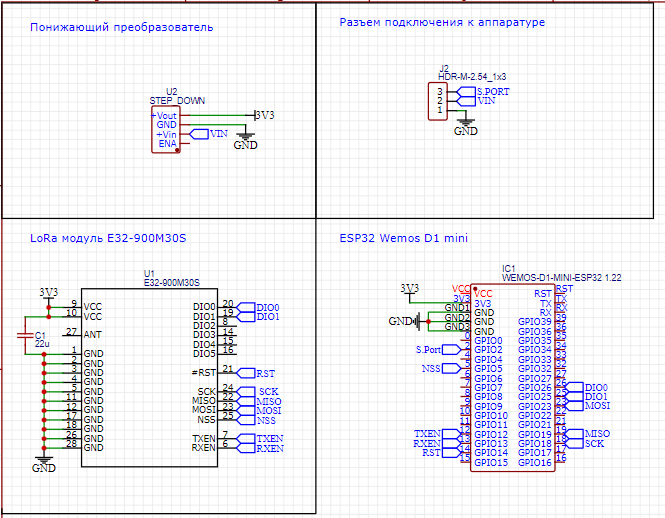
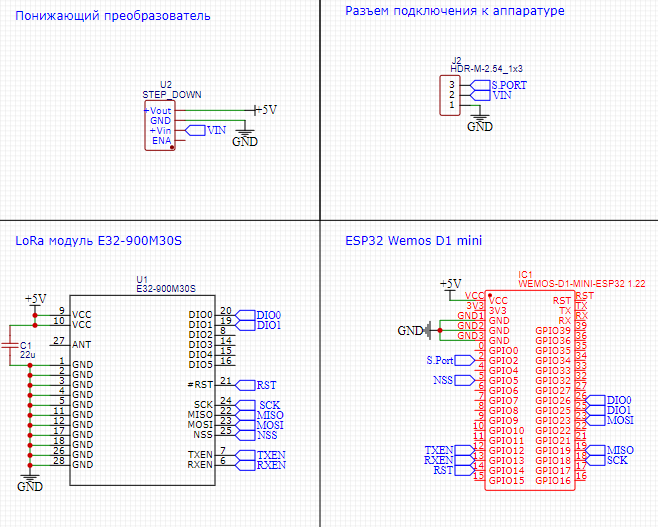
Change power supply

diff --git a/README.md b/README.md
@@ -9,7 +9,7 @@
 
 # Схема
 ![Scheme](img/Scheme.png)    
-#### На понижающем преобразователе необходимо перерезать дорожку и запаять перемычку на 3.3В
+#### На понижающем преобразователе необходимо перерезать дорожку и запаять перемычку на 5В
 ![StepDown](img/StepDown.png)    
   
 # Прошивка
